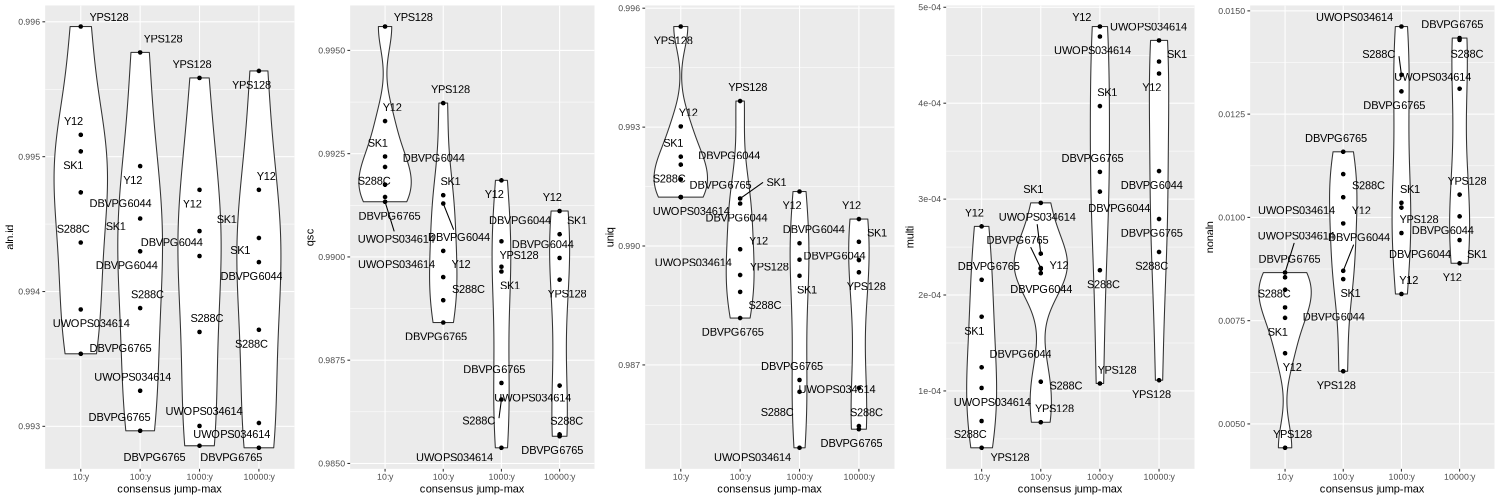
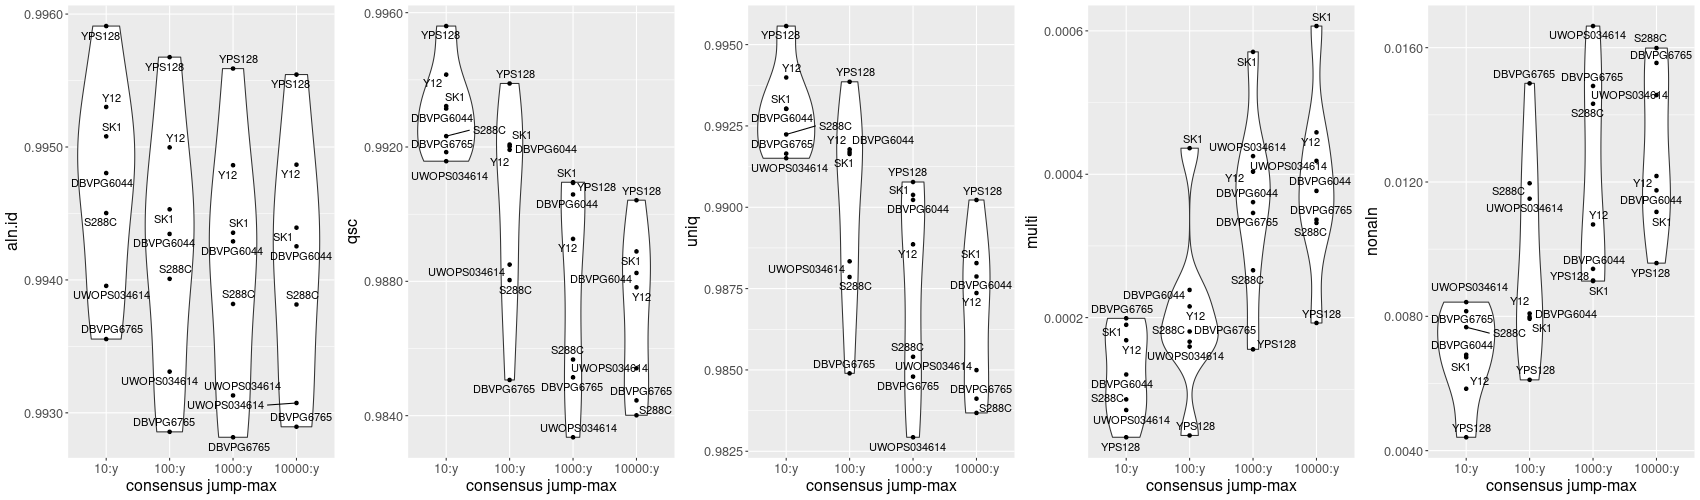
use `column -t` to show the output content; updated visualization; typos

diff --git a/README.md b/README.md
@@ -33,63 +33,70 @@ this step assumes you have correctly installed _`pggb`_):
 pggb -i data/yeast/cerevisiae.pan.fa -s 50000 -p 90 -w 30000 -n 5 -t 16 -v -Y "#" -S -k 8 -B 10000000 -I 0.7 -o pggb_yeast -W -m -S
 ```
 
-Evaluate the consensus graphs the `pggb_yeast` directory:
+Evaluate the consensus graphs stored in the `pggb_yeast` directory:
 ```
 ./pgge -g "pggb_yeast/*consensus*.gfa" -f data/yeast/cerevisiae.pan.fa  -t 16 -r ~/git/pgge/scripts/beehave.R  -l 100000 -s 50000 -o pgge_yeast
 ```
-Make sure that you include the opening and closing `"` in the command line, else the regex can't be resolved. For a single input GFA, this is not required.
+Make sure that you include the opening and closing `"` in the command line, else the regex can't be resolved. For a single
+input GFA, this is not required.
 
 These commands can also be found in `examples/pgge_yeast.sh`.
 
-:warning: _`pgge`_ is summarizing results by sample name. If you have
+:warning: _`pgge`_ summarizes results by sample name. If you have
 ```
 S288C.chrI
 S288C.chrII
 S288C.chrIII
 ```
-in your given FASTA file, the results will only contain one line of metrics. In this case for `S288C`. This is useful if you have contig sequences in your FASTA and want to summarize by sample name. _`pgge`_ always splits by `.` and takes the first entry in the resulting split as sample name. 
+in your given FASTA file, the results will only contain one line of metrics. In this case for `S288C`. This is useful if
+you have contig sequences in your FASTA and want to summarize by sample name. _`pgge`_ always splits by `.` and takes the
+first entry in the resulting split as sample name. 
 
-:warning: In addition, _`pgge`_ assumes that there is *@NUMBER* in each name of the input GAFs. This *NUMBER* is extracted later and appears in the table and output plot as *cons.jump*, because _`pgge`_ was designed for processing the results of _`pggb`_. If you are evaluating your own data not originating from _`pggb`_ it is recommended to add a different *@NUMBER* for each of your input GAFs in order to better understand the resulting output.
+:warning: In addition, _`pgge`_ assumes that there is *@NUMBER* in each name of the input GAFs. This *NUMBER* is extracted
+later and appears in the table and output plot as *cons.jump*, because _`pgge`_ was designed for processing the results
+of _`pggb`_. If you are evaluating your own data not originating from _`pggb`_ it is recommended to add a different *@NUMBER*
+for each of your input GAFs in order to better understand the resulting output.
 
 ### output
 
 The output is written to `pgge_yeast/pgge-l100000-s50000.tsv` in a tab-delimited format:
 ```
-cat pgge_yeast/pgge-l100000-s50000.tsv
+cat pgge_yeast/pgge-l100000-s50000.tsv | column -t
 ```
 ```
-sample.name	cons.jump	aln.id	qsc	uniq	multi	nonaln
-DBVPG6044	10000:y	0.994218	0.9899744104803494	0.9896451965065503	0.00032921397379912664	0.010025589519650656
-DBVPG6044	1000:y	0.994263	0.9903787772925764	0.9900709606986899	0.0003078165938864629	0.00962122270742358
-DBVPG6044	100:y	0.994298	0.9912931004366812	0.991070305676856	0.0002227947598253275	0.008706899563318778
-DBVPG6044	10:y	0.994735	0.9921786026200874	0.9920539301310044	0.00012467248908296942	0.007821397379912665
-DBVPG6765	10000:y	0.992841	0.985657729257642	0.9853784716157206	0.00027925764192139737	0.014342270742358079
-DBVPG6765	1000:y	0.992856	0.986948384279476	0.98662	0.00032838427947598254	0.013051615720524018
-DBVPG6765	100:y	0.992967	0.9884108733624454	0.9881827510917031	0.00022812227074235807	0.011589126637554585
-DBVPG6765	10:y	0.993538	0.9914508733624454	0.9912349781659389	0.00021589519650655023	0.008549126637554584
-S288C	10000:y	0.993716	0.9857024255319149	0.9854575319148936	0.0002448936170212766	0.014297574468085106
-S288C	1000:y	0.9937	0.9865472765957447	0.9863214042553191	0.0002258723404255319	0.01345272340425532
-S288C	100:y	0.993877	0.9889516170212765	0.9888419574468085	0.00010965957446808511	0.011048382978723405
-S288C	10:y	0.994363	0.9917501702127659	0.9916815319148936	0.00006863829787234043	0.008249829787234042
-SK1	10000:y	0.994397	0.9905497835497835	0.990106406926407	0.00044337662337662337	0.00945021645021645
-SK1	1000:y	0.994448	0.9896461038961039	0.9892491341991342	0.00039696969696969696	0.010353896103896103
-SK1	100:y	0.994541	0.991494329004329	0.9911982683982684	0.00029606060606060606	0.008505670995670995
-SK1	10:y	0.995039	0.9924314285714285	0.9922540692640692	0.00017735930735930737	0.007568571428571429
-UWOPS034614	10000:y	0.993025	0.9868850877192983	0.9864196052631579	0.0004654824561403509	0.013114912280701755
-UWOPS034614	1000:y	0.993003	0.9853789035087719	0.9849094298245614	0.0004694736842105263	0.01462109649122807
-UWOPS034614	100:y	0.993264	0.9895118421052631	0.9892686403508771	0.0002432017543859649	0.010488157894736842
-UWOPS034614	10:y	0.993867	0.9913359210526316	0.9912328070175439	0.0001031140350877193	0.00866407894736842
-Y12	10000:y	0.994754	0.991111135371179	0.9906802620087336	0.00043087336244541485	0.00888886462882096
-Y12	1000:y	0.994754	0.991854192139738	0.9913742794759826	0.0004799126637554585	0.008145807860262009
-Y12	100:y	0.99493	0.9901456331877729	0.989918209606987	0.0002274235807860262	0.009854366812227074
-Y12	10:y	0.995162	0.9932890829694323	0.9930175109170306	0.0002715720524017467	0.006710917030567686
-YPS128	10000:y	0.995636	0.989447903930131	0.9893367248908297	0.00011117903930131005	0.010552096069868996
-YPS128	1000:y	0.995584	0.9897622707423581	0.9896544978165939	0.00010777292576419214	0.010237729257641921
-YPS128	100:y	0.995773	0.9937249781659389	0.9936575982532752	0.00006737991266375546	0.006275021834061136
-YPS128	10:y	0.995965	0.9955779912663756	0.995537248908297	0.00004074235807860262	0.004422008733624454
+sample.name  cons.jump  aln.id    qsc                 uniq                multi                    nonaln
+DBVPG6044    10000:y    0.994253  0.9882487336244542  0.9878719650655022  0.00037676855895196504   0.011751266375545851
+DBVPG6044    1000:y     0.99429   0.9905872052401746  0.9902261572052402  0.00036104803493449783   0.009412794759825328
+DBVPG6044    100:y      0.994346  0.9920169432314411  0.9917783406113537  0.00023860262008733625   0.007983056768558951
+DBVPG6044    10:y       0.994804  0.9931444978165939  0.9930238427947599  0.00012065502183406113   0.0068555021834061135
+DBVPG6765    10000:y    0.992895  0.984453537117904   0.9841169868995633  0.00033655021834061135   0.01554646288209607
+DBVPG6765    1000:y     0.992816  0.9851402620087336  0.9847942358078603  0.00034602620087336247   0.014859737991266376
+DBVPG6765    100:y      0.992857  0.9850624454148471  0.9848960262008734  0.00016641921397379914   0.014937554585152838
+DBVPG6765    10:y       0.993555  0.9918473362445415  0.9916482969432314  0.00019903930131004368   0.008152663755458514
+S288C        10000:y    0.993815  0.9840108085106383  0.9836786808510638  0.0003321276595744681    0.015989191489361704
+S288C        1000:y     0.993819  0.9856704255319149  0.9854043829787235  0.0002660425531914894    0.014329574468085107
+S288C        100:y      0.994008  0.9880367234042553  0.9878560425531915  0.0001806808510638298    0.011963276595744681
+S288C        10:y       0.994503  0.9923237872340426  0.9922378723404255  0.00008591489361702127   0.007676212765957447
+SK1          10000:y    0.994393  0.98889             0.9882832467532467  0.0006067532467532468    0.01111
+SK1          1000:y     0.994355  0.9909501731601732  0.9903794805194805  0.0005706926406926407    0.00904982683982684
+SK1          100:y      0.994531  0.9920734632034632  0.9916370995670996  0.00043636363636363637   0.007926536796536796
+SK1          10:y       0.99508   0.9932187878787879  0.9930288311688311  0.00018995670995670995   0.006781212121212121
+UWOPS034614  10000:y    0.993074  0.9854122807017544  0.9849935964912281  0.0004186842105263158    0.014587719298245615
+UWOPS034614  1000:y     0.993131  0.9833553070175438  0.9829300438596491  0.00042526315789473683   0.01664469298245614
+UWOPS034614  100:y      0.99331   0.9884982894736842  0.9883386842105263  0.00015960526315789473   0.01150171052631579
+UWOPS034614  10:y       0.993955  0.9915775           0.991506403508772   0.00007109649122807018   0.0084225
+Y12          10000:y    0.994867  0.9878221834061135  0.9873637554585153  0.00045842794759825325   0.012177816593886464
+Y12          1000:y     0.994863  0.9892637554585153  0.9888601746724891  0.0004035807860262009    0.010736244541484715
+Y12          100:y      0.994997  0.9919159388646288  0.9917003056768559  0.00021563318777292578   0.00808406113537118
+Y12          10:y       0.995301  0.9941565065502184  0.9939880786026201  0.00016842794759825327   0.00584349344978166
+YPS128       10000:y    0.995545  0.9904155895196507  0.9902230567685589  0.00019253275109170305   0.009584410480349345
+YPS128       1000:y     0.99559   0.9909312663755458  0.9907755458515284  0.00015572052401746726   0.009068733624454149
+YPS128       100:y      0.995676  0.993891615720524   0.9938559825327511  0.000035633187772925764  0.006108384279475983
+YPS128       10:y       0.99591   0.995602576419214   0.995569519650655   0.000033056768558951964  0.004397423580786026
 ```
 
-The first number is the `aln.id` derived from the alignment identity GAF field of _`GraphAligner`_. All other metrics can be found in the [metrics section](https://github.com/pangenome/rs-peanut#metrics) of _`peanut`_.
+The first number is the `aln.id` derived from the alignment identity GAF field of _`GraphAligner`_. All other metrics can
+be found in the [metrics section](https://github.com/pangenome/rs-peanut#metrics) of _`peanut`_.
 
 _`pgge`_ also generates a visualization of the results `pgge_yeast/pgge-l100000-s50000.tsv.png`:
 ![pgge_yeast.sh](examples/pgge-l100000-s50000.tsv.png)
@@ -119,7 +126,7 @@ _`pgge`_ also generates a visualization of the results `pgge_yeast/pgge-l100000-
 - [x] Add output-folder option.
 - [ ] Add possibility to input several GAF files. Make sure the user can input a list of samples for the GAFs.
 - [ ] The user should be able to select options for GraphAligner.
-- [ ] Add a toolchain that compares the query aligments with the exact nodes they aligned to in the graph.
+- [ ] Add a toolchain that compares the query alignments with the exact nodes they aligned to in the graph.
 - [ ] Add Dockerfile.
 - [ ] Add a CI building the Dockerfile and emitting evaluation metrics for all tools using `HLA-Zoo` data.
 - [ ] Add usage examples for _`minigraph`_, _`cactus`_, and _`SibeliaZ`_.
